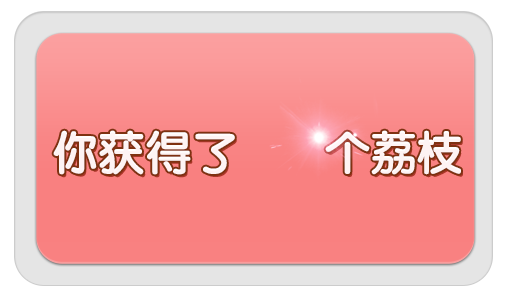
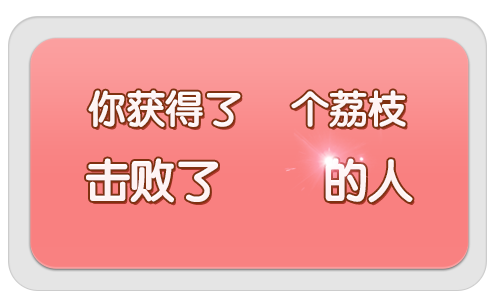
Added percent

diff --git a/bin-debug/src/lizhi/ScorePanel.js b/bin-debug/src/lizhi/ScorePanel.js
@@ -17,13 +17,13 @@ var lizhi;
             this.height = lizhi.getHeight();
             this.retry = lizhi.createBitmapByName("retry");
             this.retry.x = (lizhi.getWidth() - this.retry.width) / 2 - 160;
-            this.retry.y = (lizhi.getHeight() - this.retry.height) / 2 + 140;
+            this.retry.y = (lizhi.getHeight() - this.retry.height) / 2 + 220;
             this.retry.touchEnabled = true; //开启触碰
             this.retry.addEventListener(egret.TouchEvent.TOUCH_TAP, this.onRetry, this); //点击按钮重新游戏
             this.addChild(this.retry);
             this.share = lizhi.createBitmapByName("share");
             this.share.x = (lizhi.getWidth() - this.share.width) / 2 + 160;
-            this.share.y = (lizhi.getHeight() - this.share.height) / 2 + 140;
+            this.share.y = (lizhi.getHeight() - this.share.height) / 2 + 220;
             this.share.touchEnabled = true; //开启触碰
             this.share.addEventListener(egret.TouchEvent.TOUCH_TAP, this.onShare, this); //点击按钮分享游戏
             this.addChild(this.share);
@@ -33,19 +33,34 @@ var lizhi;
             this.addChild(this.description);
             this.score = new egret.TextField();
             this.score.textColor = 0xfee60e;
-            this.score.size = 52;
+            this.score.size = 32;
             this.score.textAlign = egret.HorizontalAlign.CENTER;
             this.score.verticalAlign = egret.VerticalAlign.MIDDLE;
             //设置描边属性
             this.score.strokeColor = 0x883216;
             this.score.width = lizhi.getWidth();
             this.score.stroke = 3;
-            this.score.x = 20;
-            this.score.y = (lizhi.getHeight() - this.score.height) / 2 - 260;
+            this.score.x = 10;
+            this.score.y = (lizhi.getHeight() - this.score.height) / 2 - 302;
             this.score.text = "0";
             this.score.fontFamily = "微软雅黑";
             this.score.bold = true;
             this.addChild(this.score);
+            this.per = new egret.TextField();
+            this.per.textColor = 0xfee60e;
+            this.per.size = 36;
+            this.per.textAlign = egret.HorizontalAlign.CENTER;
+            this.per.verticalAlign = egret.VerticalAlign.MIDDLE;
+            //设置描边属性
+            this.per.strokeColor = 0x883216;
+            this.per.width = lizhi.getWidth();
+            this.per.stroke = 3;
+            this.per.x = 20;
+            this.per.y = (lizhi.getHeight() - this.per.height) / 2 - 230;
+            this.per.text = "0%";
+            this.per.fontFamily = "微软雅黑";
+            this.per.bold = true;
+            this.addChild(this.per);
             this.message = new egret.TextField();
             this.message.textColor = 0xFFFFFF;
             this.message.size = 32;
@@ -54,9 +69,9 @@ var lizhi;
             //设置描边属性
             this.message.strokeColor = 0x833314;
             this.message.width = lizhi.getWidth() / 1.5;
-            this.message.stroke = 3;
+            this.message.stroke = 2;
             this.message.x = 120;
-            this.message.y = (lizhi.getHeight() - this.message.height) / 2 - 80;
+            this.message.y = (lizhi.getHeight() - this.message.height) / 2 - 40;
             this.message.text = "想成为荔枝达人还得眼细手快些哦,再试一次吧~~~";
             this.message.fontFamily = "幼圆";
             this.message.bold = true;
@@ -86,6 +101,30 @@ var lizhi;
         };
         ScorePanel.prototype.oneThird = function () {
             return Math.floor(Math.random() * 3 + 1);
+        };
+        ScorePanel.prototype.percentGenerate = function () {
+            if (lizhi.Data.score >= 0 && lizhi.Data.score <= 19) {
+                this.percent = (10 * Math.random()).toFixed(1);
+            }
+            else if (lizhi.Data.score <= 39) {
+                this.percent = (50 - 10 * Math.random()).toFixed(1);
+            }
+            else if (lizhi.Data.score <= 49) {
+                this.percent = (75 - 10 * Math.random()).toFixed(1);
+            }
+            else if (lizhi.Data.score >= 50) {
+                this.percent = (90 - 10 * Math.random()).toFixed(1);
+            }
+            else {
+                this.percent = (100 - 10 * Math.random()).toFixed(1);
+            }
+            return this.percent;
+        };
+        ScorePanel.prototype.shareMsg = function () {
+            this.percentGenerate();
+            this.per.text = this.percent + "%";
+            var msg = "我在《荔枝达人》中摘得" + lizhi.Data.score + "颗荔枝，击败了" + this.percent + "%的人，不服来战！";
+            return msg;
         };
         return ScorePanel;
     })(egret.Sprite);

diff --git a/src/lizhi/ScorePanel.ts b/src/lizhi/ScorePanel.ts
@@ -12,6 +12,8 @@ module lizhi {
         private description:egret.Bitmap;
         private banner:egret.Bitmap;
         private msg:string;
+        private percent:string;
+        private per:egret.TextField;
 
         public constructor() {
             super();
@@ -19,14 +21,14 @@ module lizhi {
             this.height = getHeight();
             this.retry = lizhi.createBitmapByName("retry");
             this.retry.x = (lizhi.getWidth()-this.retry.width)/2 - 160;
-            this.retry.y = (lizhi.getHeight()-this.retry.height)/2 + 140;
+            this.retry.y = (lizhi.getHeight()-this.retry.height)/2 + 220;
             this.retry.touchEnabled = true;//开启触碰
             this.retry.addEventListener(egret.TouchEvent.TOUCH_TAP,this.onRetry,this);//点击按钮重新游戏
             this.addChild(this.retry);
 
             this.share = lizhi.createBitmapByName("share");
             this.share.x = (lizhi.getWidth()-this.share.width)/2 + 160;
-            this.share.y = (lizhi.getHeight()-this.share.height)/2 + 140;
+            this.share.y = (lizhi.getHeight()-this.share.height)/2 + 220;
             this.share.touchEnabled = true;//开启触碰
             this.share.addEventListener(egret.TouchEvent.TOUCH_TAP,this.onShare,this);//点击按钮分享游戏
             this.addChild(this.share);
@@ -39,19 +41,35 @@ module lizhi {
 
             this.score = new egret.TextField();
             this.score.textColor = 0xfee60e;
-            this.score.size = 52;
+            this.score.size = 32;
             this.score.textAlign = egret.HorizontalAlign.CENTER;
             this.score.verticalAlign = egret.VerticalAlign.MIDDLE;
             //设置描边属性
             this.score.strokeColor = 0x883216;
             this.score.width = getWidth();
             this.score.stroke = 3;
-            this.score.x = 20;
-            this.score.y = (getHeight()-this.score.height)/2 - 260;
+            this.score.x = 10;
+            this.score.y = (getHeight()-this.score.height)/2 - 302;
             this.score.text = "0";
             this.score.fontFamily = "微软雅黑";
             this.score.bold = true;
             this.addChild(this.score);
+
+            this.per = new egret.TextField();
+            this.per.textColor = 0xfee60e;
+            this.per.size = 36;
+            this.per.textAlign = egret.HorizontalAlign.CENTER;
+            this.per.verticalAlign = egret.VerticalAlign.MIDDLE;
+            //设置描边属性
+            this.per.strokeColor = 0x883216;
+            this.per.width = getWidth();
+            this.per.stroke = 3;
+            this.per.x = 20;
+            this.per.y = (getHeight()-this.per.height)/2 - 230;
+            this.per.text = "0%";
+            this.per.fontFamily = "微软雅黑";
+            this.per.bold = true;
+            this.addChild(this.per);
 
             this.message = new egret.TextField();
             this.message.textColor = 0xFFFFFF;
@@ -61,9 +79,9 @@ module lizhi {
             //设置描边属性
             this.message.strokeColor = 0x833314;
             this.message.width = getWidth()/1.5;
-            this.message.stroke = 3;
+            this.message.stroke = 2;
             this.message.x = 120;
-            this.message.y = (getHeight()-this.message.height)/2 - 80;
+            this.message.y = (getHeight()-this.message.height)/2 - 40;
             this.message.text = "想成为荔枝达人还得眼细手快些哦,再试一次吧~~~";
             this.message.fontFamily = "幼圆";
             this.message.bold = true;
@@ -101,6 +119,28 @@ module lizhi {
 
         private oneThird():number {
             return Math.floor(Math.random()*3+1);
+        }
+
+        private percentGenerate():string {
+            if(Data.score >=0 && Data.score <= 19) {
+                this.percent = (10*Math.random()).toFixed(1);
+            } else if (Data.score <= 39) {
+                this.percent = (50-10*Math.random()).toFixed(1);
+            } else if (Data.score <= 49) {
+                this.percent = (75-10*Math.random()).toFixed(1);
+            } else if (Data.score >= 50) {
+                this.percent = (90-10*Math.random()).toFixed(1);
+            } else {
+                this.percent = (100-10*Math.random()).toFixed(1);
+            }
+            return this.percent;
+        }
+
+        public shareMsg():string {
+            this.percentGenerate();
+            this.per.text = this.percent + "%";
+            var msg = "我在《荔枝达人》中摘得" + Data.score + "颗荔枝，击败了" + this.percent + "%的人，不服来战！";
+            return msg;
         }
     }
 }

diff --git a/bin-debug/src/lizhi/GameContainer.js b/bin-debug/src/lizhi/GameContainer.js
@@ -112,25 +112,8 @@ var lizhi;
             this.timer.removeEventListener(egret.TimerEvent.TIMER, this.onTimeDown, this);
             this.timer.removeEventListener(egret.TimerEvent.TIMER_COMPLETE, this.onGameOver, this);
             this.removeChild(this.gamePanel);
-            if (lizhi.Data.score >= 0 && lizhi.Data.score <= 19) {
-                result(this.shareMsg((10 * Math.random()).toFixed(2)));
-            }
-            else if (lizhi.Data.score <= 39) {
-                result(this.shareMsg((50 - 10 * Math.random()).toFixed(2)));
-            }
-            else if (lizhi.Data.score <= 49) {
-                result(this.shareMsg((75 - 10 * Math.random()).toFixed(2)));
-            }
-            else if (lizhi.Data.score >= 50) {
-                result(this.shareMsg((90 - 10 * Math.random()).toFixed(2)));
-            }
-            else {
-                result(this.shareMsg((100 - 10 * Math.random()).toFixed(2)));
-            }
-        };
-        GameContainer.prototype.shareMsg = function (n) {
-            var msg = "我在《荔枝达人》中摘得" + lizhi.Data.score + "颗荔枝，击败了" + n + "%的人，不服来战！";
-            return msg;
+            var s = this.scorePanel.shareMsg();
+            result(s);
         };
         GameContainer.prototype.onRetry = function () {
             this.removeChild(this.scorePanel);

diff --git a/src/lizhi/GameContainer.ts b/src/lizhi/GameContainer.ts
@@ -134,23 +134,11 @@ module lizhi {
             this.timer.removeEventListener(egret.TimerEvent.TIMER,this.onTimeDown,this);
             this.timer.removeEventListener(egret.TimerEvent.TIMER_COMPLETE,this.onGameOver,this);
             this.removeChild(this.gamePanel);
-            if(Data.score >=0 && Data.score <= 19) {
-                result(this.shareMsg((10*Math.random()).toFixed(2)));
-            } else if (Data.score <= 39) {
-                result(this.shareMsg((50-10*Math.random()).toFixed(2)));
-            } else if (Data.score <= 49) {
-                result(this.shareMsg((75-10*Math.random()).toFixed(2)));
-            } else if (Data.score >= 50) {
-                result(this.shareMsg((90-10*Math.random()).toFixed(2)));
-            } else {
-                result(this.shareMsg((100-10*Math.random()).toFixed(2)));
-            }
+            var s = this.scorePanel.shareMsg();
+            result(s);
         }
 
-        private shareMsg(n:string):string {
-            var msg = "我在《荔枝达人》中摘得" + Data.score + "颗荔枝，击败了" + n + "%的人，不服来战！";
-            return msg;
-        }
+
 
         private onRetry() {
 
